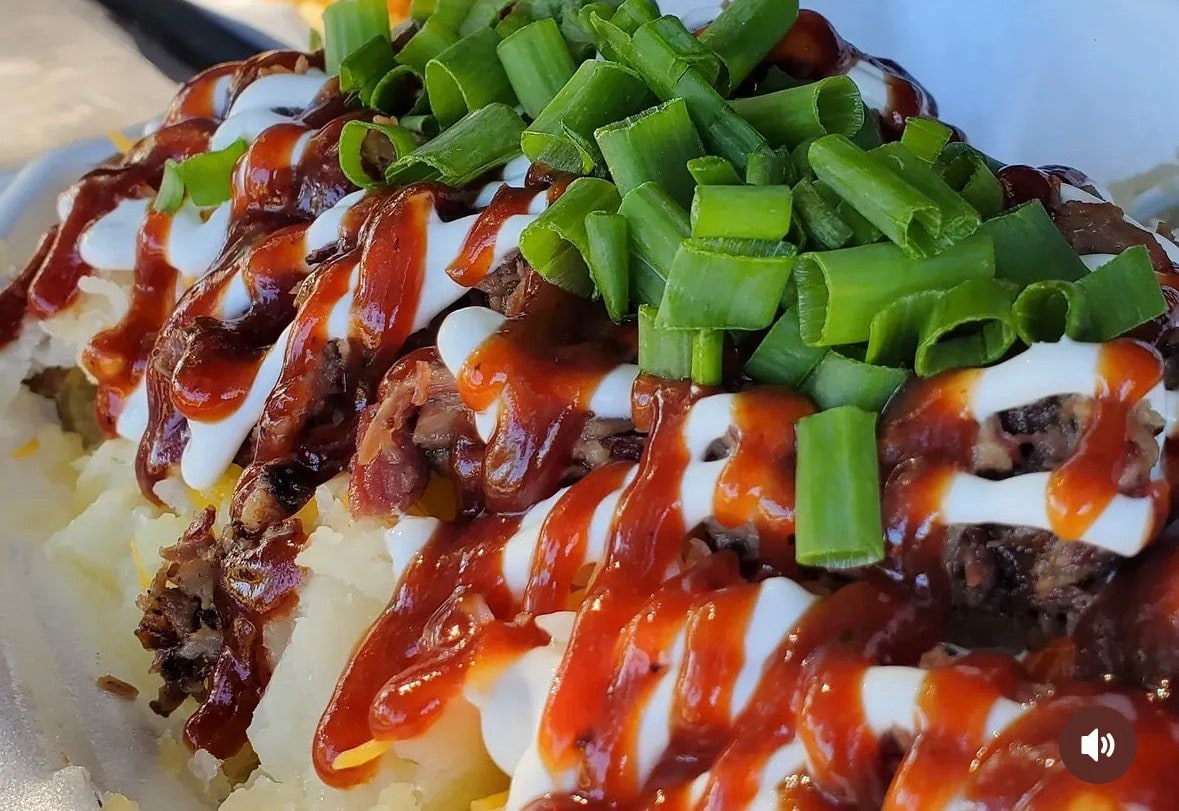
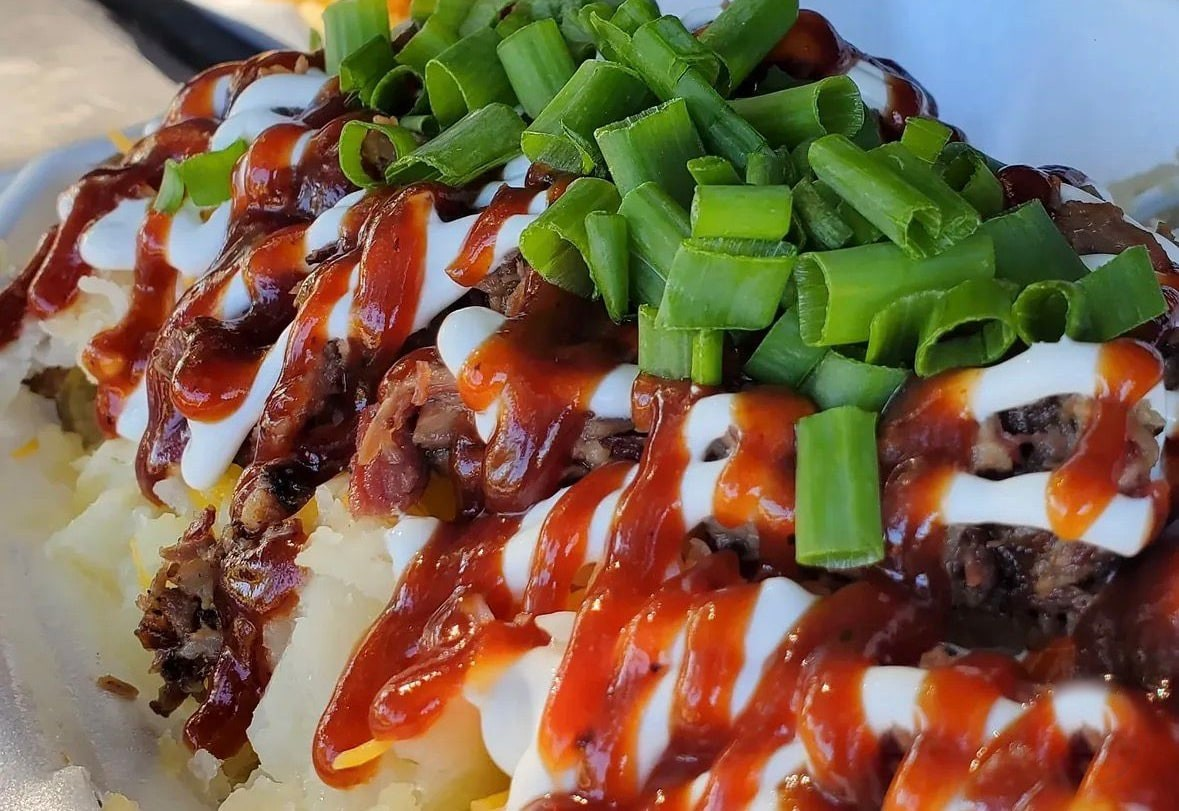
Update site content, add menu and marquee images

Changed region(s): [[0.855, 0.8323, 0.9771, 0.9864]]

diff --git a/src/app/page.tsx b/src/app/page.tsx
@@ -13,35 +13,36 @@ export default async function Home() {
 
   return (
     <>
-      {/* HERO */}
-      <section className="relative">
-        <div className="absolute inset-0 z-0">
-          <Image
-            src="https://images.unsplash.com/photo-1761712826074-5f1bab2b2f32?w=1800&q=80&auto=format&fit=crop"
-            alt="Loaded baked potato"
-            fill
-            priority
-            sizes="100vw"
-            className="object-cover opacity-50"
-          />
-          <div
-            className="absolute inset-0"
-            style={{
-              background:
-                "linear-gradient(180deg, rgba(19,17,15,0.6) 0%, rgba(19,17,15,0.85) 60%, rgba(19,17,15,1) 100%)",
-            }}
-          />
-        </div>
+      {/* FIXED HERO BACKDROP — holds steady while the page scrolls up over it */}
+      <div className="fixed inset-0 -z-10">
+        <Image
+          src="/hero-truck.jpg"
+          alt="Iron Oaks BBQ food truck at night"
+          fill
+          priority
+          sizes="100vw"
+          className="object-cover scale-95 opacity-100 brightness-[1.75]"
+        />
+        <div
+          className="absolute inset-0"
+          style={{
+            background:
+              "radial-gradient(120% 100% at 10% 20%, rgba(5,7,6,0.97) 0%, rgba(5,7,6,0.84) 32%, rgba(5,7,6,0.36) 58%, rgba(5,7,6,0) 78%), linear-gradient(90deg, rgba(5,7,6,0.6) 0%, rgba(5,7,6,0.28) 32%, rgba(5,7,6,0.04) 55%, rgba(5,7,6,0) 68%), linear-gradient(270deg, rgba(5,7,6,0.4) 0%, rgba(5,7,6,0.18) 22%, rgba(5,7,6,0.04) 40%, rgba(5,7,6,0) 55%), linear-gradient(180deg, rgba(5,7,6,0.1) 0%, rgba(5,7,6,0.2) 70%, rgba(5,7,6,0.7) 88%, rgba(5,7,6,1) 100%)",
+          }}
+        />
+      </div>
 
+      {/* HERO — transparent, tall enough to reveal the fixed backdrop */}
+      <section className="relative min-h-[90svh]">
         <div className="relative z-10 max-w-6xl mx-auto px-5 sm:px-8 pt-10 sm:pt-16 pb-12 sm:pb-16">
           <div className="max-w-2xl">
-            <p className="text-(--amber) text-xs uppercase tracking-[0.18em] font-semibold mb-5">
+            <p className="text-gold-chrome text-xs uppercase tracking-[0.18em] font-semibold mb-5">
               {SETTINGS.brand.tagline}
             </p>
             <h1 className="font-serif text-5xl sm:text-7xl leading-[1.02] tracking-tight text-(--text)">
               Upscale quality,
               <br />
-              <em className="text-(--amber) not-italic font-medium">
+              <em className="text-gold-chrome not-italic font-medium">
                 for blue collar pockets.
               </em>
             </h1>
@@ -71,14 +72,23 @@ export default async function Home() {
         </div>
       </section>
 
-      {/* PHOTO STRIP */}
-      <PhotoStrip />
+      {/* CONTENT — one continuous veil that fades in at the marquee and holds
+          steady to the bottom, so the truck dims once with no repeated breaks */}
+      <div
+        className="relative z-0"
+        style={{
+          background:
+            "linear-gradient(180deg, rgba(5,7,6,0) 0, rgba(5,7,6,0.65) 90px, rgba(5,7,6,0.65) 100%)",
+        }}
+      >
+        {/* PHOTO STRIP */}
+        <PhotoStrip />
 
       {/* SIGNATURES */}
       <section className="max-w-6xl mx-auto px-5 sm:px-8 py-10 sm:py-14">
         <div className="flex items-end justify-between mb-10 sm:mb-12 gap-4">
           <div>
-            <p className="text-(--amber) text-xs uppercase tracking-[0.18em] font-semibold mb-3">
+            <p className="text-gold-chrome text-xs uppercase tracking-[0.18em] font-semibold mb-3">
               The menu
             </p>
             <h2 className="font-serif text-3xl sm:text-5xl leading-tight">
@@ -131,7 +141,7 @@ export default async function Home() {
 
       {/* STORY TEASE */}
       <section className="max-w-3xl mx-auto px-5 sm:px-8 py-12 sm:py-16 text-center">
-        <p className="text-(--amber) text-xs uppercase tracking-[0.18em] font-semibold mb-4">
+        <p className="text-gold-chrome text-xs uppercase tracking-[0.18em] font-semibold mb-4">
           The shop
         </p>
         <h2 className="font-serif text-3xl sm:text-4xl leading-tight mb-5">
@@ -150,6 +160,7 @@ export default async function Home() {
           Read the story →
         </Link>
       </section>
+      </div>
     </>
   );
 }

diff --git a/src/app/globals.css b/src/app/globals.css
@@ -1,25 +1,26 @@
 @import "tailwindcss";
 
-/* Iron Oaks palette — warm-tinted dark, iron + oak references */
+/* Iron Oaks palette — the truck: deep green body, gold rims/lettering,
+   neon underglow, wet-asphalt night street */
 :root {
-  --bg: #13110F;
-  --bg-raised: #1C1A17;
-  --bg-card: #252220;
-  --bg-card-hover: #2D2A27;
+  --bg: #050706;
+  --bg-raised: #0B0F0D;
+  --bg-card: #111714;
+  --bg-card-hover: #18211C;
   --border: rgba(242, 237, 229, 0.08);
-  --border-strong: rgba(242, 237, 229, 0.15);
+  --border-strong: rgba(233, 196, 94, 0.22);
 
   --text: #F2EDE5;
-  --text-soft: #B8B0A3;
-  --text-muted: #7D766B;
+  --text-soft: #B3B5A9;
+  --text-muted: #79806F;
 
-  --amber: #D89A3A;
-  --amber-deep: #B07A24;
-  --russet: #C56A2F;
-  --russet-deep: #A8551F;
+  --amber: #E9C45E;
+  --amber-deep: #B98F38;
+  --russet: #1E7A42;
+  --russet-deep: #134E2B;
 
-  --open: #8FA67A;
-  --open-deep: #6E8757;
+  --open: #27E27C;
+  --open-deep: #18B863;
   --closed: #C44747;
   --closed-deep: #9E3434;
 }
@@ -68,6 +69,17 @@ button, a {
   -webkit-tap-highlight-color: transparent;
 }
 
+/* Polished chrome-gold gradient — bright highlight fading to deep base,
+   the way light rolls off the truck's gold wheel spokes. Use on large
+   gold elements (hero accents, wordmark); too fine for small caps. */
+.text-gold-chrome {
+  background: linear-gradient(177deg, #FBEBBE 0%, #ECC868 34%, #C99A3E 64%, #936E2C 100%);
+  -webkit-background-clip: text;
+  background-clip: text;
+  -webkit-text-fill-color: transparent;
+  color: transparent;
+}
+
 *:focus-visible {
   outline: 2px solid var(--amber);
   outline-offset: 2px;
@@ -88,10 +100,6 @@ button, a {
 ::-webkit-scrollbar-thumb:hover { background: var(--bg-card-hover); }
 
 html { -webkit-text-size-adjust: 100%; }
-
-@media (max-width: 768px) {
-  body { padding-bottom: calc(72px + env(safe-area-inset-bottom)); }
-}
 
 /* -------- PHOTO STRIP (auto-scrolling marquee) -------- */
 .photo-strip { overflow: hidden; }

diff --git a/src/components/layout/SiteFooter.tsx b/src/components/layout/SiteFooter.tsx
@@ -3,7 +3,7 @@ import { SETTINGS } from "@/content/settings";
 
 export function SiteFooter() {
   return (
-    <footer className="bg-(--bg-raised) border-t border-(--color-line) mt-20">
+    <footer className="pt-20" style={{ background: "rgba(5,7,6,0.65)" }}>
       <div className="max-w-6xl mx-auto px-5 sm:px-8 py-14 grid gap-10 md:grid-cols-4">
         <div className="md:col-span-2">
           <div className="font-serif text-2xl font-medium text-(--text)">
@@ -50,7 +50,7 @@ export function SiteFooter() {
         </div>
       </div>
 
-      <div className="border-t border-(--color-line)">
+      <div>
         <div className="max-w-6xl mx-auto px-5 sm:px-8 py-5 flex flex-col sm:flex-row items-center justify-between gap-3 text-xs text-(--text-muted)">
           <div>© {new Date().getFullYear()} Iron Oaks</div>
           <div>
@@ -67,6 +67,14 @@ export function SiteFooter() {
           </div>
         </div>
       </div>
+
+      {/* Mobile-only spacer: reserves room for the fixed bottom nav so the
+          footer's veil extends behind it — no bright background strip below. */}
+      <div
+        aria-hidden="true"
+        className="md:hidden"
+        style={{ height: "calc(64px + env(safe-area-inset-bottom))" }}
+      />
     </footer>
   );
 }

diff --git a/src/app/menu/page.tsx b/src/app/menu/page.tsx
@@ -17,7 +17,7 @@ export default async function MenuPage() {
     <div className="max-w-5xl mx-auto px-5 sm:px-8 py-12 sm:py-20">
       <header className="mb-10 sm:mb-14 flex flex-wrap items-end justify-between gap-5">
         <div>
-          <p className="text-(--amber) text-xs uppercase tracking-[0.18em] font-semibold mb-3">
+          <p className="text-gold-chrome text-xs uppercase tracking-[0.18em] font-semibold mb-3">
             The menu
           </p>
           <h1 className="font-serif text-4xl sm:text-6xl leading-[1.05]">
@@ -47,7 +47,7 @@ export default async function MenuPage() {
                 alt={item.name}
                 fill
                 sizes="(max-width: 640px) 100vw, 40vw"
-                className="object-cover"
+                className={`object-cover ${item.id === "brisket" ? "scale-[0.92] rounded-xl" : ""}`}
               />
             </div>
             <div className="sm:col-span-3">

diff --git a/src/app/order/success/page.tsx b/src/app/order/success/page.tsx
@@ -77,7 +77,7 @@ function SuccessShell({ order }: { order: LastOrder | null }) {
       <div className="inline-flex w-16 h-16 rounded-full bg-(--open)/15 border border-(--open)/30 items-center justify-center mb-7">
         <span className="text-(--open) text-3xl">✓</span>
       </div>
-      <p className="text-(--amber) text-xs uppercase tracking-[0.18em] font-semibold mb-3">
+      <p className="text-gold-chrome text-xs uppercase tracking-[0.18em] font-semibold mb-3">
         Order received
       </p>
       <h1 className="font-serif text-4xl sm:text-5xl leading-tight mb-5">

diff --git a/src/components/layout/SiteHeader.tsx b/src/components/layout/SiteHeader.tsx
@@ -12,7 +12,7 @@ export function SiteHeader({ state }: { state: SiteState }) {
       <div className="max-w-6xl mx-auto px-5 sm:px-8 h-16 flex items-center justify-between gap-4">
         <Link
           href="/"
-          className="font-serif text-xl font-medium tracking-tight text-(--text) hover:text-(--amber) transition-colors"
+          className="font-serif text-xl font-medium tracking-tight text-gold-chrome transition-[filter] hover:brightness-110"
         >
           Iron Oaks
         </Link>

diff --git a/src/content/menu.ts b/src/content/menu.ts
@@ -23,8 +23,7 @@ export const MENU: MenuItem[] = [
     description:
       "Hot baked potato with a quarter pound of fire-grilled chicken — smoked bacon, butter, cheese, homemade ranch, jalapeños, green onions, and sriracha.",
     price: 15,
-    image:
-      "https://images.unsplash.com/photo-1761712826074-5f1bab2b2f32?w=900&q=80&auto=format&fit=crop",
+    image: "/menu/chicken-bacon-ranch.jpeg",
     tags: ["Signature"],
     modifiers: [
       { id: "extra-bacon", name: "Extra bacon", price: 2 },

diff --git a/src/app/about/page.tsx b/src/app/about/page.tsx
@@ -7,7 +7,7 @@ export default function AboutPage() {
   return (
     <div className="max-w-4xl mx-auto px-5 sm:px-8 py-12 sm:py-20">
       <header className="mb-14 sm:mb-20 text-center">
-        <p className="text-(--amber) text-xs uppercase tracking-[0.18em] font-semibold mb-4">
+        <p className="text-gold-chrome text-xs uppercase tracking-[0.18em] font-semibold mb-4">
           Who you're eating with
         </p>
         <h1 className="font-serif text-4xl sm:text-6xl leading-[1.05] mb-6">

diff --git a/src/app/community/page.tsx b/src/app/community/page.tsx
@@ -6,7 +6,7 @@ export default function CommunityPage() {
   return (
     <div className="max-w-5xl mx-auto px-5 sm:px-8 py-12 sm:py-20">
       <header className="mb-14 sm:mb-20 text-center">
-        <p className="text-(--amber) text-xs uppercase tracking-[0.18em] font-semibold mb-4">
+        <p className="text-gold-chrome text-xs uppercase tracking-[0.18em] font-semibold mb-4">
           We are all we got
         </p>
         <h1 className="font-serif text-4xl sm:text-6xl leading-[1.05] mb-6">

diff --git a/src/components/DeliveryAreaMap.tsx b/src/components/DeliveryAreaMap.tsx
@@ -17,7 +17,7 @@ export function DeliveryAreaMap() {
   return (
     <figure className="bg-(--bg-card) border border-(--color-line) rounded-2xl p-6 sm:p-8">
       <figcaption className="mb-5">
-        <p className="text-(--amber) text-xs uppercase tracking-[0.18em] font-semibold mb-2">
+        <p className="text-gold-chrome text-xs uppercase tracking-[0.18em] font-semibold mb-2">
           Free delivery zone
         </p>
         <p className="text-(--text-soft) text-sm leading-relaxed">

diff --git a/src/app/catering/page.tsx b/src/app/catering/page.tsx
@@ -19,7 +19,7 @@ export default function CateringPage() {
   return (
     <div className="max-w-5xl mx-auto px-5 sm:px-8 py-12 sm:py-20">
       <header className="mb-12 sm:mb-16 text-center">
-        <p className="text-(--amber) text-xs uppercase tracking-[0.18em] font-semibold mb-4">
+        <p className="text-gold-chrome text-xs uppercase tracking-[0.18em] font-semibold mb-4">
           Catering
         </p>
         <h1 className="font-serif text-4xl sm:text-6xl leading-[1.05] mb-6">

diff --git a/src/app/calendar/page.tsx b/src/app/calendar/page.tsx
@@ -62,7 +62,7 @@ export default async function CalendarPage() {
   return (
     <div className="max-w-5xl mx-auto px-5 sm:px-8 py-12 sm:py-20">
       <header className="mb-10 sm:mb-14">
-        <p className="text-(--amber) text-xs uppercase tracking-[0.18em] font-semibold mb-3">
+        <p className="text-gold-chrome text-xs uppercase tracking-[0.18em] font-semibold mb-3">
           The calendar
         </p>
         <h1 className="font-serif text-4xl sm:text-6xl leading-[1.05]">
